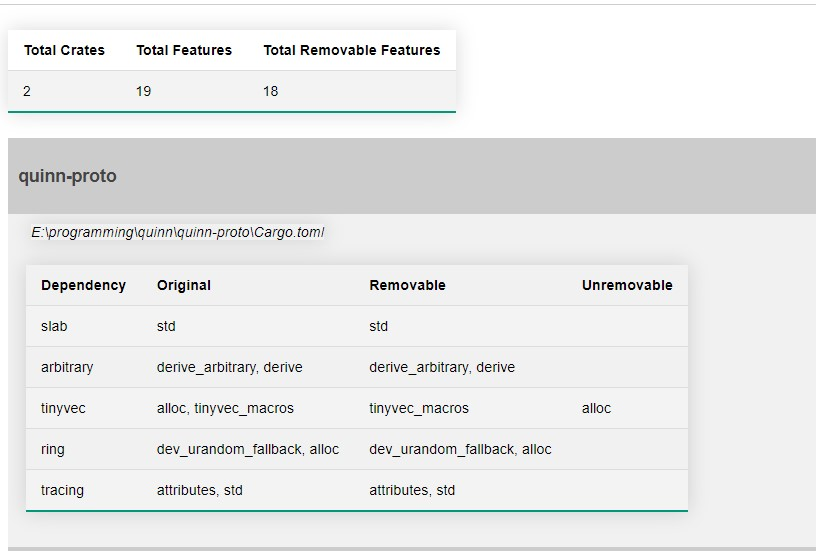
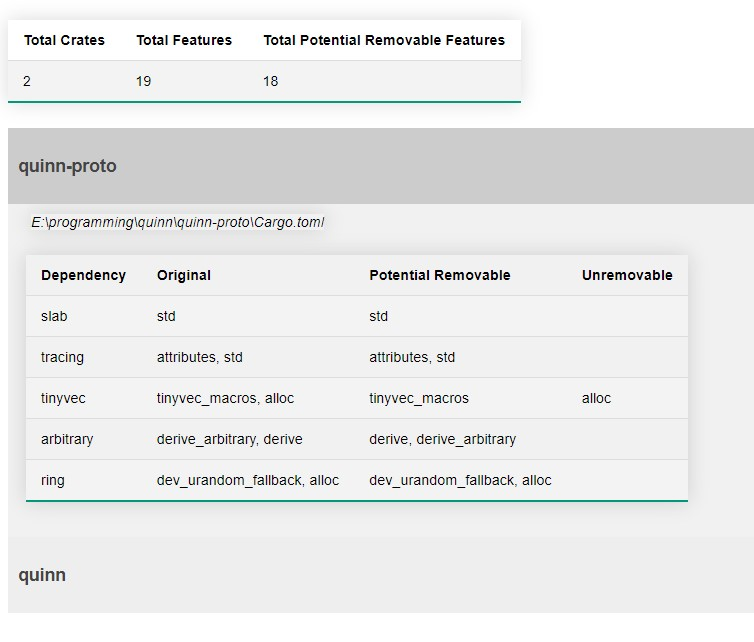
0.1.1
Test

diff --git a/src/subcommands/report_builder.rs b/src/subcommands/report_builder.rs
@@ -160,7 +160,7 @@ fn dependencies_table(dependency_rows: String) -> String {
             <th>Dependency</th>
             <th>Original</th>
             <th>Potential Removable</th>
-            <th>Potential Unremovable</th>
+            <th>Unremovable</th>
         </tr>
         {}
         </table>       

diff --git a/README.md b/README.md
@@ -6,13 +6,13 @@
 
 </div>
 
-# 1. Unused enabled feature flag pruner.
+# Potential unused, enabled feature flag finder and pruner.
 
-This cargo tool allows you to find and prune enabled, but, unused feature flags from your project.
+This cargo tool allows you to find and prune enabled, but, [potentially](#3-some-things-to-keep-in-mind) unused feature flags from your project.
 
 Use `cargo unused-features --help` to fetch more details about available subcommands and their configurations.
 
-# 2. How to use
+# 1. How to use
 
 Run `cargo install cargo-unused-features` or download the library and build it yourself.
 
@@ -40,17 +40,17 @@ After it finished running, check the `report.html` in the project directory. You
 
 3. Applying suggested removals of feature flags.
 
-It is possible to auto-apply the findings of the first command. But keep in mind the [disclaimers](#4-some-things-to-keep-in-mind).
+It is possible to auto-apply the findings of the first command. But keep in mind the [disclaimers](#3-some-things-to-keep-in-mind).
 
 ```bash
 cargo unused-features prune --input "C:/some_path/report.json"
 ```
 
-# 3. How it Works
+# 2. How it Works
 
 This library works for both workspaces and individual crates. In the context of a workspace it will just iterate each crate in the workspace-definition and run the same process it does for a single crate. 
 
-For a single crate it removes a feature of a dependency and then compiles the project to see if it still compiles. If it does, the feature flag can possibly be removed, but it can be a false-positve ([disclaimers](#4-some-things-to-keep-in-mind).). Yes, recompiling for every feature-flag implies some overhead. However, this is a one-time thing and if you have a large project, just let it run for a while. I personally have ran it on a project with over 50 crates and it finished within an hour. The compiler will not perform a complete clean rebuild which is in our favor.
+For a single crate it removes a feature of a dependency and then compiles the project to see if it still compiles. If it does, the feature flag can possibly be removed, but it can be a false-positve ([disclaimers](#3-some-things-to-keep-in-mind).). Yes, recompiling for every feature-flag implies some overhead. However, this is a one-time thing and if you have a large project, just let it run for a while. I personally have ran it on a project with over 50 crates and it finished within an hour. The compiler will not perform a complete clean rebuild which is in our favor.
 
 Furthermore, This library uses [cargo_toml][6] to remove or add features. It loads a TOML file into memory, modifies the dependency features, serializes the `Manifest`, and writes it back to the toml-file. Then it starts compiling, and after it finishes running, the original content is written back as if nothing had happened.
 
@@ -60,17 +60,22 @@ During the process, a json report is updated for each crate to ensure that if it
 
 Finally, this library also has the option to apply all suggestions automatically by running `cargo unused-features prune` command. For this task, [toml-edit][8] is used because it doesn't mess with formatting, comments, and spaces, in the TOML-file.
 
-# 4. Some things to keep in mind
+# 3. Some things to keep in mind
 
 - Sometimes feature flags can turn logic on and off without breaking the compilation and therefore this tool can mark a feature flag as removable, but essentially it would change the internal logic of a library. For this reason, this library offers 3 phases. Analyze, automatically apply suggestions, and generate a report. If you want to be more carefully inspect the HTML report to see more clearly what suggestions are given and manually update the dependencies yourself. 
 - Given crate A and B, B depends on A and uses logic from a dependency of A that is hidden behind a feature flag enabled in A, but A itself does not use this code. In this scenario, the feature flag can be removed for A but not for B. So this can result in a false positive. I would recommend going through the suggestions on a crate by crate basis, or just running it on the full workspace, and fixing the compilation errors by adding the removed features. 
 - Feature flags may only be used for a certain target-os. This project does not compile for each target, but instead, you can specify the target with `--target x` to the `cargo unused-features` command.
 
-# 5. Report Bug
+# 4. Report Bug
 
 This tool is very new, and one can expect problems. If you have problems, please do the following:
+
 1. Open an issue with the problematic `Cargo.toml` file. 
 2. Provide the `--log debug` flag to the `cargo-unused-features` command and post the logs in the issue as well.
+
+# Future
+
+Would be nice to find ways to be more certain about when a feature can be removed. Potentially we would need to do some regex matches with features in the dependency code base and see how the feature is used. And with that get a more precise assumption. If you have an idea, feel free to open an issue or reach out to me!
 
 [1a]: https://img.shields.io/crates/v/cargo-unused-features.svg
 [1b]: https://img.shields.io/crates/v/cargo-unused-features.svg
